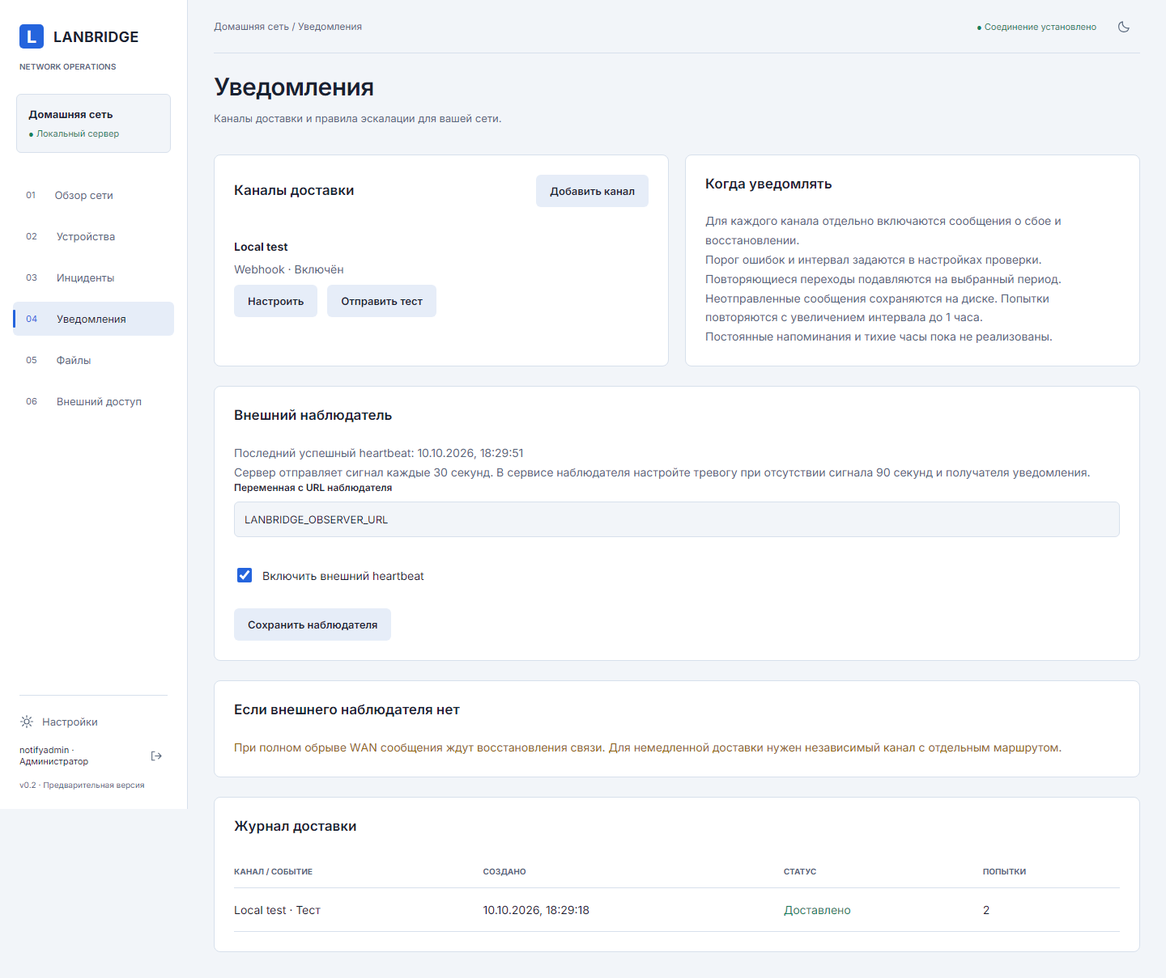
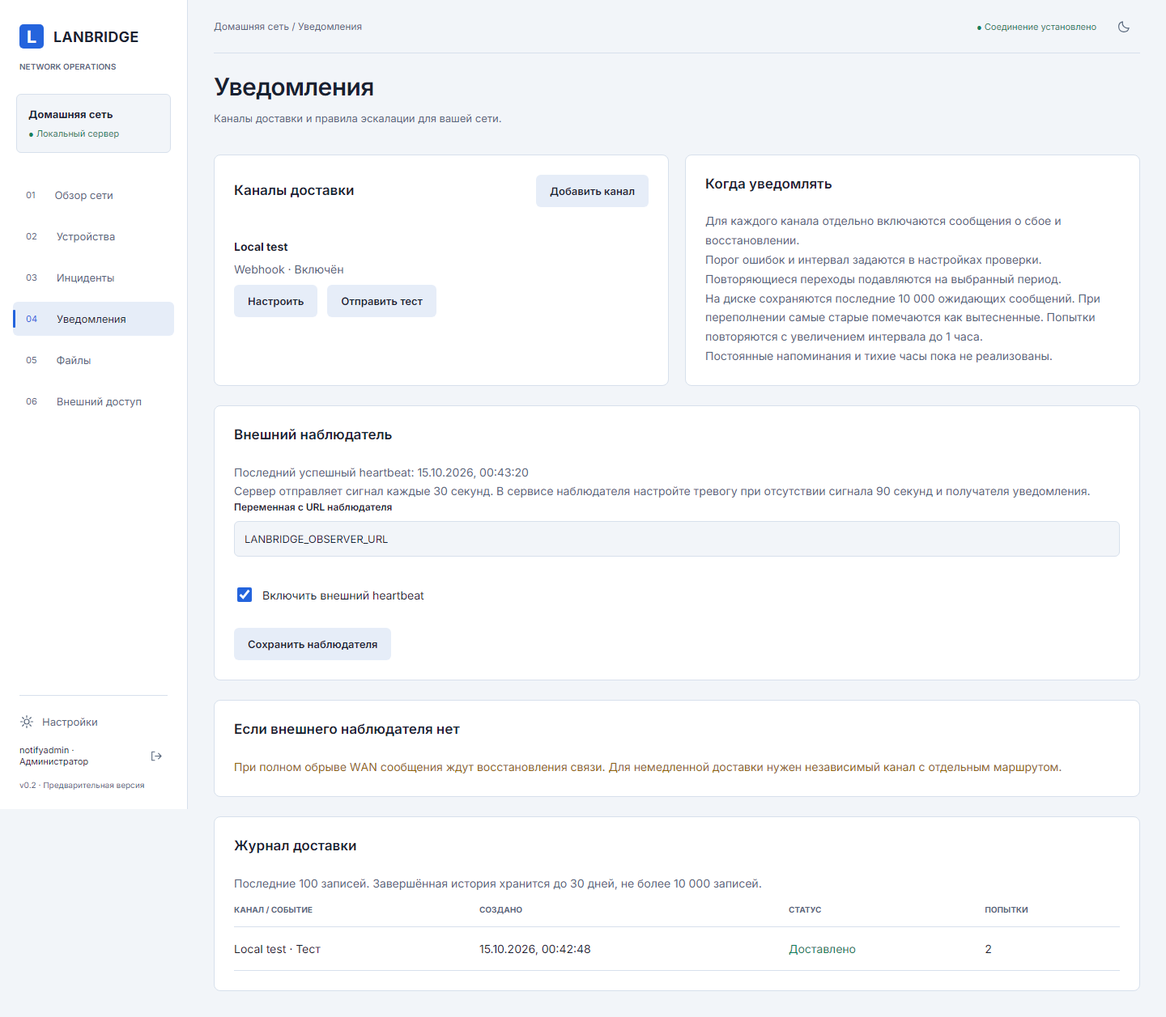
feat: bound notification queue and delivery history

diff --git a/web/src/notifications.js b/web/src/notifications.js
@@ -14,7 +14,7 @@ export function Notifications({api,notify,user}){
  const obs=observer||data.observer;
  async function test(channel){setBusy(true);try{await api('notifications/test','POST',{id:channel.id});notify('Тестовое сообщение добавлено в очередь');await load()}catch(e){notify(e.message,true)}finally{setBusy(false)}}
  async function saveObserver(e){e.preventDefault();setBusy(true);try{await api('notifications/heartbeat','POST',{enabled:obs.enabled,url_env:obs.url_env});setObserver(null);await load();notify('Наблюдатель сохранён')}catch(e){notify(e.message,true)}finally{setBusy(false)}}
- return html`<div class="settings-grid"><section class="panel"><div class="panel-heading"><h2>Каналы доставки</h2><button class="button secondary" onClick=${()=>setDialog({...initial})}>Добавить канал</button></div>${data.channels.length?data.channels.map(c=>html`<div class="notification-channel" key=${c.id}><div><strong>${c.name}</strong><p class="muted">${kinds[c.kind]} · ${c.enabled?'Включён':'Выключен'}</p></div><div class="dialog-actions"><button class="button secondary" onClick=${()=>setDialog(c)}>Настроить</button><button class="button secondary" disabled=${busy||!c.enabled} onClick=${()=>test(c)}>Отправить тест</button></div></div>`):html`<div class="empty"><h3>Каналы пока не настроены</h3><p>Добавьте Telegram, SMTP или Webhook.</p></div>`}</section><section class="panel"><h2>Когда уведомлять</h2><p class="muted">Для каждого канала отдельно включаются сообщения о сбое и восстановлении.</p><p class="muted">Порог ошибок и интервал задаются в настройках проверки. Повторяющиеся переходы подавляются на выбранный период.</p><p class="muted">Неотправленные сообщения сохраняются на диске. Попытки повторяются с увеличением интервала до 1 часа.</p><p class="muted">Постоянные напоминания и тихие часы пока не реализованы.</p></section></div><section class="panel"><h2>Внешний наблюдатель</h2><p class=${data.observer.error?'warning':'muted'}>${data.observer.enabled?(data.observer.error||'Последний успешный heartbeat: '+stamp(data.observer.last_success)):'Выключен'}</p><p class="muted">Сервер отправляет сигнал каждые 30 секунд. В сервисе наблюдателя настройте тревогу при отсутствии сигнала 90 секунд и получателя уведомления.</p><form onSubmit=${saveObserver}><label class="field"><span>Переменная с URL наблюдателя</span><input value=${obs.url_env} placeholder="LANBRIDGE_OBSERVER_URL" required=${obs.enabled} pattern="LANBRIDGE_[A-Z0-9_]+" onInput=${e=>setObserver({...obs,url_env:e.currentTarget.value})}/></label><label class="check-label"><input type="checkbox" checked=${obs.enabled} onChange=${e=>setObserver({...obs,enabled:e.currentTarget.checked})}/>Включить внешний heartbeat</label><button class="button secondary" disabled=${busy}>Сохранить наблюдателя</button></form></section><section class="panel"><h2>Если внешнего наблюдателя нет</h2><p class="warning">При полном обрыве WAN сообщения ждут восстановления связи. Для немедленной доставки нужен независимый канал с отдельным маршрутом.</p></section><section class="panel"><h2>Журнал доставки</h2>${data.deliveries.length?html`<div class="table-scroll"><table><thead><tr><th>КАНАЛ / СОБЫТИЕ</th><th>СОЗДАНО</th><th>СТАТУС</th><th>ПОПЫТКИ</th></tr></thead><tbody>${data.deliveries.map(d=>html`<tr key=${d.id}><td>${data.channels.find(c=>c.id===d.channel_id)?.name} · ${{test:'Тест',down:'Сбой',up:'Восстановление',device:'Новое устройство'}[d.kind]||d.kind}</td><td>${stamp(d.created)}</td><td><span class=${d.status==='delivered'?'monitor-status up':'warning'}>${d.status==='delivered'?'Доставлено':'В очереди'}</span>${d.error&&html`<p class="muted">${d.error}</p>`}</td><td>${d.attempts}</td></tr>`)}</tbody></table></div>`:html`<p class="muted">Сообщения ещё не отправлялись.</p>`}</section>${dialog&&html`<${ChannelDialog} value=${dialog} api=${api} notify=${notify} onClose=${()=>setDialog(null)} onSaved=${()=>{setDialog(null);load()}}/>`}`;
+ return html`<div class="settings-grid"><section class="panel"><div class="panel-heading"><h2>Каналы доставки</h2><button class="button secondary" onClick=${()=>setDialog({...initial})}>Добавить канал</button></div>${data.channels.length?data.channels.map(c=>html`<div class="notification-channel" key=${c.id}><div><strong>${c.name}</strong><p class="muted">${kinds[c.kind]} · ${c.enabled?'Включён':'Выключен'}</p></div><div class="dialog-actions"><button class="button secondary" onClick=${()=>setDialog(c)}>Настроить</button><button class="button secondary" disabled=${busy||!c.enabled} onClick=${()=>test(c)}>Отправить тест</button></div></div>`):html`<div class="empty"><h3>Каналы пока не настроены</h3><p>Добавьте Telegram, SMTP или Webhook.</p></div>`}</section><section class="panel"><h2>Когда уведомлять</h2><p class="muted">Для каждого канала отдельно включаются сообщения о сбое и восстановлении.</p><p class="muted">Порог ошибок и интервал задаются в настройках проверки. Повторяющиеся переходы подавляются на выбранный период.</p><p class="muted">На диске сохраняются последние 10 000 ожидающих сообщений. При переполнении самые старые помечаются как вытесненные. Попытки повторяются с увеличением интервала до 1 часа.</p><p class="muted">Постоянные напоминания и тихие часы пока не реализованы.</p></section></div><section class="panel"><h2>Внешний наблюдатель</h2><p class=${data.observer.error?'warning':'muted'}>${data.observer.enabled?(data.observer.error||'Последний успешный heartbeat: '+stamp(data.observer.last_success)):'Выключен'}</p><p class="muted">Сервер отправляет сигнал каждые 30 секунд. В сервисе наблюдателя настройте тревогу при отсутствии сигнала 90 секунд и получателя уведомления.</p><form onSubmit=${saveObserver}><label class="field"><span>Переменная с URL наблюдателя</span><input value=${obs.url_env} placeholder="LANBRIDGE_OBSERVER_URL" required=${obs.enabled} pattern="LANBRIDGE_[A-Z0-9_]+" onInput=${e=>setObserver({...obs,url_env:e.currentTarget.value})}/></label><label class="check-label"><input type="checkbox" checked=${obs.enabled} onChange=${e=>setObserver({...obs,enabled:e.currentTarget.checked})}/>Включить внешний heartbeat</label><button class="button secondary" disabled=${busy}>Сохранить наблюдателя</button></form></section><section class="panel"><h2>Если внешнего наблюдателя нет</h2><p class="warning">При полном обрыве WAN сообщения ждут восстановления связи. Для немедленной доставки нужен независимый канал с отдельным маршрутом.</p></section><section class="panel"><h2>Журнал доставки</h2><p class="muted">Последние 100 записей. Завершённая история хранится до 30 дней, не более 10 000 записей.</p>${data.deliveries.length?html`<div class="table-scroll"><table><thead><tr><th>КАНАЛ / СОБЫТИЕ</th><th>СОЗДАНО</th><th>СТАТУС</th><th>ПОПЫТКИ</th></tr></thead><tbody>${data.deliveries.map(d=>html`<tr key=${d.id}><td>${data.channels.find(c=>c.id===d.channel_id)?.name} · ${{test:'Тест',down:'Сбой',up:'Восстановление',device:'Новое устройство'}[d.kind]||d.kind}</td><td>${stamp(d.created)}</td><td><span class=${d.status==='delivered'?'monitor-status up':'warning'}>${({delivered:'Доставлено',pending:'В очереди',dropped:'Вытеснено'})[d.status]||d.status}</span>${d.error&&html`<p class="muted">${d.error}</p>`}</td><td>${d.attempts}</td></tr>`)}</tbody></table></div>`:html`<p class="muted">Сообщения ещё не отправлялись.</p>`}</section>${dialog&&html`<${ChannelDialog} value=${dialog} api=${api} notify=${notify} onClose=${()=>setDialog(null)} onSaved=${()=>{setDialog(null);load()}}/>`}`;
 }
 function ChannelDialog({value,api,notify,onClose,onSaved}){
  const[d,setD]=useState({...value}),[busy,setBusy]=useState(false);const ref=useRef();useEffect(()=>{ref.current.showModal()},[]);

diff --git a/internal/notify/queue_test.go b/internal/notify/queue_test.go
@@ -144,7 +144,7 @@ func TestLargePendingQueueDoesNotRejectIncident(t *testing.T) {
 	if _, e = db.Exec("INSERT INTO notification_channels(config) VALUES(?)", string(raw)); e != nil {
 		t.Fatal(e)
 	}
-	if _, e = db.Exec(`WITH RECURSIVE n(x) AS (SELECT 1 UNION ALL SELECT x+1 FROM n WHERE x<10000) INSERT INTO notification_queue(channel_id,event_id,kind,payload,next_at,created_at) SELECT 1,x,'test','{}',0,0 FROM n`); e != nil {
+	if _, e = db.Exec(`WITH RECURSIVE n(x) AS (SELECT 1 UNION ALL SELECT x+1 FROM n WHERE x<10000) INSERT INTO notification_queue(channel_id,event_id,kind,payload,next_at,created_at) SELECT 1,x,'test','{}',0,unixepoch() FROM n`); e != nil {
 		t.Fatal(e)
 	}
 	tx, e := db.Begin()
@@ -161,5 +161,75 @@ func TestLargePendingQueueDoesNotRejectIncident(t *testing.T) {
 	var count int
 	if e = db.QueryRow("SELECT COUNT(*) FROM notification_queue").Scan(&count); e != nil || count != 10001 {
 		t.Fatal(e, count)
+	}
+	var status string
+	if e = db.QueryRow("SELECT status FROM notification_queue ORDER BY id LIMIT 1").Scan(&status); e != nil || status != "dropped" {
+		t.Fatal(status, e)
+	}
+	if e = db.QueryRow("SELECT COUNT(*) FROM notification_queue WHERE status='pending'").Scan(&count); e != nil || count != PendingLimit {
+		t.Fatal(count, e)
+	}
+
+}
+
+func TestQueueBoundsAndIdleRetention(t *testing.T) {
+	db, err := store.Open(filepath.Join(t.TempDir(), "bounded.sqlite3"))
+	if err != nil {
+		t.Fatal(err)
+	}
+	defer db.Close()
+	if _, err = db.Exec(`INSERT INTO notification_channels(config) VALUES('{"enabled":false}')`); err != nil {
+		t.Fatal(err)
+	}
+	if _, err = db.Exec(`WITH RECURSIVE n(x) AS (SELECT 1 UNION ALL SELECT x+1 FROM n WHERE x<20005) INSERT INTO notification_queue(channel_id,event_id,kind,payload,status,next_at,created_at,delivered_at) SELECT 1,x,'test','{}',CASE WHEN x<=10003 THEN 'pending' ELSE 'delivered' END,0,unixepoch(),CASE WHEN x>10003 THEN unixepoch() ELSE NULL END FROM n`); err != nil {
+		t.Fatal(err)
+	}
+	w := New(db, slog.New(slog.NewTextHandler(io.Discard, nil)), func(string, any) {})
+	// Maintenance runs even when all channels are disabled and no job is due.
+	if err = w.Step(context.Background()); err != nil {
+		t.Fatal(err)
+	}
+	for status, want := range map[string]int{"pending": PendingLimit, "delivered": HistoryLimit} {
+		var got int
+		if err = db.QueryRow("SELECT COUNT(*) FROM notification_queue WHERE status=?", status).Scan(&got); err != nil || got != want {
+			t.Fatal(status, got, err)
+		}
+	}
+	tx, err := db.Begin()
+	if err != nil {
+		t.Fatal(err)
+	}
+	defer tx.Rollback()
+	event := Event{ID: 30000, Kind: "down", At: time.Now().Unix()}
+	if err = Queue(context.Background(), tx, 1, event); err != nil {
+		t.Fatal(err)
+	}
+	// Duplicate enqueue does not evict another pending job.
+	if err = Queue(context.Background(), tx, 1, event); err != nil {
+		t.Fatal(err)
+	}
+	if err = tx.Commit(); err != nil {
+		t.Fatal(err)
+	}
+	var pending, dropped int
+	if err = db.QueryRow("SELECT COUNT(*) FROM notification_queue WHERE status='pending'").Scan(&pending); err != nil {
+		t.Fatal(err)
+	}
+	if err = db.QueryRow("SELECT COUNT(*) FROM notification_queue WHERE status='dropped'").Scan(&dropped); err != nil {
+		t.Fatal(err)
+	}
+	if pending != PendingLimit || dropped != 0 {
+		t.Fatal(pending, dropped)
+	} // Older than retained completed history.
+	if _, err = db.Exec("UPDATE notification_queue SET delivered_at=1 WHERE status='delivered'"); err != nil {
+		t.Fatal(err)
+	}
+	w.nextMaintenance = time.Time{}
+	if err = w.Step(context.Background()); err != nil {
+		t.Fatal(err)
+	}
+	var total int
+	if err = db.QueryRow("SELECT COUNT(*) FROM notification_queue").Scan(&total); err != nil || total != PendingLimit {
+		t.Fatal(total, err)
 	}
 }

diff --git a/internal/notify/queue.go b/internal/notify/queue.go
@@ -39,7 +39,6 @@ func Enqueue(ctx context.Context, tx *sql.Tx, event Event) error {
 		return e
 	}
 	rows.Close()
-	payload, _ := json.Marshal(event)
 	for _, c := range channels {
 		var previous int64
 		e = tx.QueryRowContext(ctx, "SELECT last_at FROM notification_cooldown WHERE channel_id=? AND monitor_id=? AND kind=?", c.ID, event.MonitorID, event.Kind).Scan(&previous)
@@ -49,7 +48,7 @@ func Enqueue(ctx context.Context, tx *sql.Tx, event Event) error {
 		if event.At-previous < int64(c.Cooldown) {
 			continue
 		}
-		if _, e = tx.ExecContext(ctx, "INSERT OR IGNORE INTO notification_queue(channel_id,event_id,kind,payload,next_at,created_at) VALUES(?,?,?,?,?,?)", c.ID, event.ID, event.Kind, string(payload), event.At, event.At); e != nil {
+		if e = Queue(ctx, tx, c.ID, event); e != nil {
 			return e
 		}
 		if _, e = tx.ExecContext(ctx, "INSERT INTO notification_cooldown VALUES(?,?,?,?) ON CONFLICT(channel_id,monitor_id,kind) DO UPDATE SET last_at=excluded.last_at", c.ID, event.MonitorID, event.Kind, event.At); e != nil {
@@ -60,11 +59,12 @@ func Enqueue(ctx context.Context, tx *sql.Tx, event Event) error {
 }
 
 type Worker struct {
-	db      *sql.DB
-	log     *slog.Logger
-	wg      sync.WaitGroup
-	cancel  context.CancelFunc
-	publish func(string, any)
+	nextMaintenance time.Time
+	db              *sql.DB
+	log             *slog.Logger
+	wg              sync.WaitGroup
+	cancel          context.CancelFunc
+	publish         func(string, any)
 }
 
 func New(db *sql.DB, log *slog.Logger, publish func(string, any)) *Worker {
@@ -107,6 +107,9 @@ func (w *Worker) Step(ctx context.Context) (stepErr error) {
 			stepErr = fmt.Errorf("notification worker panic; pending delivery retained")
 		}
 	}()
+	if err := w.maintain(ctx); err != nil {
+		return err
+	}
 	var id, channelID int64
 	var config, payload string
 	var attempts int
@@ -133,18 +136,19 @@ func (w *Worker) Step(ctx context.Context) (stepErr error) {
 		return ctx.Err()
 	}
 	if err == nil {
-		_, err = w.db.ExecContext(ctx, "UPDATE notification_queue SET status='delivered',attempts=attempts+1,delivered_at=?,last_error='' WHERE id=?", time.Now().Unix(), id)
+		_, err = w.db.ExecContext(ctx, "UPDATE notification_queue SET status='delivered',attempts=attempts+1,delivered_at=?,last_error='' WHERE id=? AND status='pending'", time.Now().Unix(), id)
 	} else {
 		message := err.Error()
 		delay := int64(5) << min(attempts, 10)
 		if delay > 3600 {
 			delay = 3600
 		}
-		_, err = w.db.ExecContext(ctx, "UPDATE notification_queue SET attempts=attempts+1,next_at=?,last_error=? WHERE id=?", time.Now().Unix()+delay, message, id)
+		_, err = w.db.ExecContext(ctx, "UPDATE notification_queue SET attempts=attempts+1,next_at=?,last_error=? WHERE id=? AND status='pending'", time.Now().Unix()+delay, message, id)
 	}
 	if err == nil {
 		w.publish("delivery", map[string]any{"id": id})
-		_, err = w.db.ExecContext(ctx, "DELETE FROM notification_queue WHERE status='delivered' AND delivered_at<?", time.Now().Add(-30*24*time.Hour).Unix())
+		w.nextMaintenance = time.Time{}
+		err = w.maintain(ctx)
 	}
 	return err
 }

diff --git a/internal/notify/retention.go b/internal/notify/retention.go
@@ -1,0 +1,53 @@
+package notify
+
+import (
+	"context"
+	"database/sql"
+	"encoding/json"
+	"time"
+)
+
+const PendingLimit = 10000
+const HistoryLimit = 10000
+
+// Queue inserts and bounds delivery jobs in the caller's transaction. Overflow
+// must never reject the incident transaction: retain the newest pending jobs.
+func Queue(ctx context.Context, tx *sql.Tx, channelID int64, event Event) error {
+	payload, err := json.Marshal(event)
+	if err != nil {
+		return err
+	}
+	if _, err = tx.ExecContext(ctx, `INSERT OR IGNORE INTO notification_queue(channel_id,event_id,kind,payload,next_at,created_at) VALUES(?,?,?,?,?,?)`, channelID, event.ID, event.Kind, string(payload), event.At, event.At); err != nil {
+		return err
+	}
+	return prune(ctx, tx, time.Now().Unix())
+}
+
+func prune(ctx context.Context, tx *sql.Tx, now int64) error {
+	if _, err := tx.ExecContext(ctx, `UPDATE notification_queue SET status='dropped',last_error='Вытеснено: достигнут лимит очереди' WHERE id IN (SELECT id FROM notification_queue WHERE status='pending' ORDER BY id DESC LIMIT -1 OFFSET ?)`, PendingLimit); err != nil {
+		return err
+	}
+	if _, err := tx.ExecContext(ctx, `DELETE FROM notification_queue WHERE status!='pending' AND COALESCE(delivered_at,created_at)<?`, now-int64(30*24*time.Hour/time.Second)); err != nil {
+		return err
+	}
+	_, err := tx.ExecContext(ctx, `DELETE FROM notification_queue WHERE id IN (SELECT id FROM notification_queue WHERE status!='pending' ORDER BY id DESC LIMIT -1 OFFSET ?)`, HistoryLimit)
+	return err
+}
+
+func (w *Worker) maintain(ctx context.Context) error {
+	if time.Now().Before(w.nextMaintenance) {
+		return nil
+	}
+	tx, err := w.db.BeginTx(ctx, nil)
+	if err != nil {
+		return err
+	}
+	defer tx.Rollback()
+	if err = prune(ctx, tx, time.Now().Unix()); err != nil {
+		return err
+	}
+	if err = tx.Commit(); err == nil {
+		w.nextMaintenance = time.Now().Add(time.Minute)
+	}
+	return err
+}

diff --git a/internal/server/notifications.go b/internal/server/notifications.go
@@ -152,8 +152,14 @@ func (s *Server) testChannel(w http.ResponseWriter, r *http.Request) {
 		problem(w, 409, "channel", "Сначала включите канал")
 		return
 	}
+	tx, e := s.DB.BeginTx(r.Context(), nil)
+	if e != nil {
+		s.dbError(w, e)
+		return
+	}
+	defer tx.Rollback()
 	var pending int
-	if e := s.DB.QueryRowContext(r.Context(), "SELECT COUNT(*) FROM notification_queue WHERE channel_id=? AND kind='test' AND status='pending'", body.ID).Scan(&pending); e != nil {
+	if e = tx.QueryRowContext(r.Context(), "SELECT COUNT(*) FROM notification_queue WHERE channel_id=? AND kind='test' AND status='pending'", body.ID).Scan(&pending); e != nil {
 		s.dbError(w, e)
 		return
 	}
@@ -162,8 +168,11 @@ func (s *Server) testChannel(w http.ResponseWriter, r *http.Request) {
 		return
 	}
 	event := notify.Event{ID: time.Now().UnixNano(), Kind: "test", Name: "LANBridge", Message: "Проверка канала уведомлений", At: time.Now().Unix()}
-	payload, _ := json.Marshal(event)
-	if _, e := s.DB.ExecContext(r.Context(), "INSERT INTO notification_queue(channel_id,event_id,kind,payload,next_at,created_at) VALUES(?,?,'test',?,?,?)", body.ID, event.ID, string(payload), event.At, event.At); e != nil {
+	if e = notify.Queue(r.Context(), tx, body.ID, event); e != nil {
+		s.dbError(w, e)
+		return
+	}
+	if e = tx.Commit(); e != nil {
 		s.dbError(w, e)
 		return
 	}

diff --git a/docs/go-notifications.md b/docs/go-notifications.md
@@ -61,7 +61,7 @@ Webhook и наблюдатель требуют HTTPS, кроме loopback-ад
 это не доказывает, что внешний сервис действительно настроен отправлять тревоги.
 
 При потере WAN уведомление через тот же WAN отправить невозможно. Очередь сохраняет
-его до восстановления. Для независимого резервного канала добавьте второй канал
+его до восстановления в пределах лимита очереди. Для независимого резервного канала добавьте второй канал
 и при необходимости задайте исходящий IP другого интерфейса сервера. Маршрут через
 отдельный шлюз/модем должен быть настроен в ОС. Привязка IP сама по себе не создаёт
 резервное подключение и не гарантирует независимость DNS.
@@ -92,7 +92,7 @@ CSV экспортируется целиком независимо от фил
 
 Локально проверены Webhook 503 → очередь → принудительная остановка → повторный
 запуск → 204, сохранение настроек через браузер, heartbeat, роли, подавление повторов,
-очередь более 10 000 записей и отказ SMTP без STARTTLS. Внешние Telegram/SMTP-аккаунты
+переполнение очереди, ограничение истории, очистка при выключенных каналах и отказ SMTP без STARTTLS. Внешние Telegram/SMTP-аккаунты
 не подключались: доставка реальным провайдерам и резервный физический канал
 не проверены. Наблюдатель проверен локальным HTTP-приёмником, не внешним сервисом.
 
@@ -104,3 +104,19 @@ CSV экспортируется целиком независимо от фил
 
 Уведомления о новом устройстве подключены к модулю [обнаружения](go-devices.md).
 Тихие часы, постоянные напоминания и уведомления о заполнении диска пока не подключены.
+
+## Ограничения очереди
+
+Общий предел — 10 000 ожидающих сообщений на все каналы, включая тестовые.
+Новый переход сохраняется вместе с инцидентом в одной транзакции. При переполнении
+самые старые ожидающие задания получают статус `dropped` («Вытеснено») и больше
+не отправляются. Сам инцидент не удаляется. Уже начатую сетевую отправку это
+не отменяет. Отключённые каналы тоже занимают очередь; при длительном сбое старые
+уведомления могут быть потеряны, поэтому журнал инцидентов остаётся источником истории.
+
+Завершённые и вытесненные задания хранятся до 30 дней, не более 10 000 записей
+суммарно; в интерфейсе видны последние 100 записей всех статусов. Для доставленных
+срок отсчитывается от доставки, для вытесненных — от создания. Предел истории
+выбирает записи по порядку создания. Очистка выполняется при постановке/обработке
+сообщений и раз в минуту, даже если каналы выключены. При запуске существующая
+очередь тоже приводится к этим пределам. Дубликат задания не вытесняет ещё одно сообщение.

diff --git a/docs/progress.md b/docs/progress.md
@@ -1,4 +1,4 @@
-# Остаток работ — 14 октября 2026
+# Остаток работ — 15 октября 2026
 
 Оценка выполнения обязательного задания: примерно **70–75%**. Это инженерная
 оценка объёма работы, а не точная метрика и не обещание срока. До финальной
@@ -22,7 +22,7 @@ heartbeat, обнаружение устройств и диагностика. 
 |---|---|
 | 7. Ссылки и телефон | Ссылки, пароль, срок, лимит, отзыв, QR и история реализованы; остаётся проверка реальным телефоном в LAN |
 | 8. Внешний доступ | Cloudflare, гостевой шлюз, отключение и журнал реализованы; локальные интеграционные тесты пройдены. Нужна реальная проверка Cloudflare/WAN; NetBird и SSH пока не реализованы |
-| 9. Доработка и надёжность | Автовосстановление повреждённой БД, ограничения очередей, предупреждения о диске, аудит и дополнительные настройки; лимит основной SQLite уже реализован |
+| 9. Доработка и надёжность | Автовосстановление повреждённой БД, предупреждения о диске, аудит и дополнительные настройки; лимит основной SQLite и ограничения очереди/истории уведомлений уже реализованы |
 | 10. Выпуск | Windows-служба, systemd/Docker для Go, проверка на Linux и чистой Windows, полный README по чистому клону, релизный тег |
 
 Оставшиеся детали предыдущих этапов:

diff --git a/README.md b/README.md
@@ -400,3 +400,5 @@ lanbridge/
 Дальнейшая работа: mDNS, расширенная OUI-база, отправка на выбранный клиент, отдельная публикация гостевых маршрутов, управление NetBird/reverse proxy, ACL/квоты, локализация строк, thumbnail-кэш и автоматизация проверки нескольких ОС.
 
 Лицензия — [MIT](LICENSE). Проект использует FastAPI, Uvicorn, Starlette, Pydantic, SQLite, psutil, argon2-cffi, cryptography, PyYAML и qrcode; Ruff и Playwright помогают проверять код и интерфейс. Их лицензии сохраняются у соответствующих проектов.
+
+Ограничения очереди и история доставки Go-версии: [уведомления](docs/go-notifications.md#ограничения-очереди).

diff --git a/CHANGELOG.md b/CHANGELOG.md
@@ -6,6 +6,10 @@
 
 ### Переход на Go
 
+- Ограничены очередь уведомлений (10 000 ожидающих) и история (10 000 / 30 дней).
+  Переполнение вытесняет старые задания, сохраняя запись новых инцидентов;
+  очистка работает и при выключенных каналах.
+
 - Добавлен лимит основной SQLite `database.max_mb` (512 МиБ), повторное применение
   PRAGMA при смене соединения и понятный HTTP 507 при заполнении БД/диска.
   Проверено отсутствие повреждения и повторное использование освобождённых страниц.
